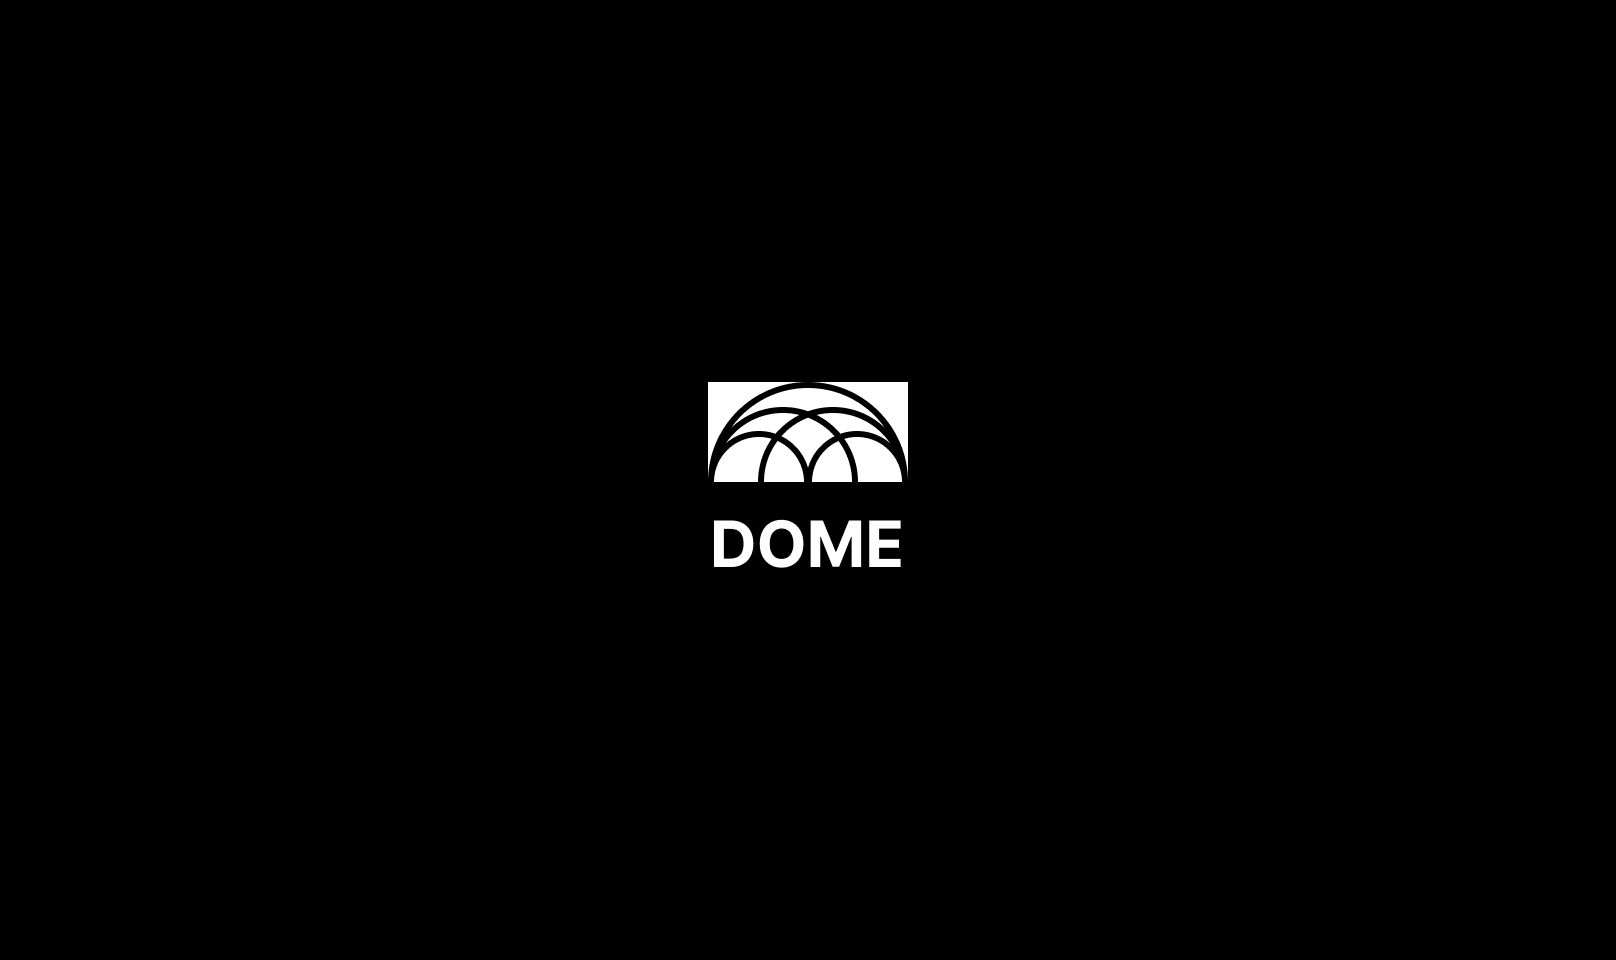
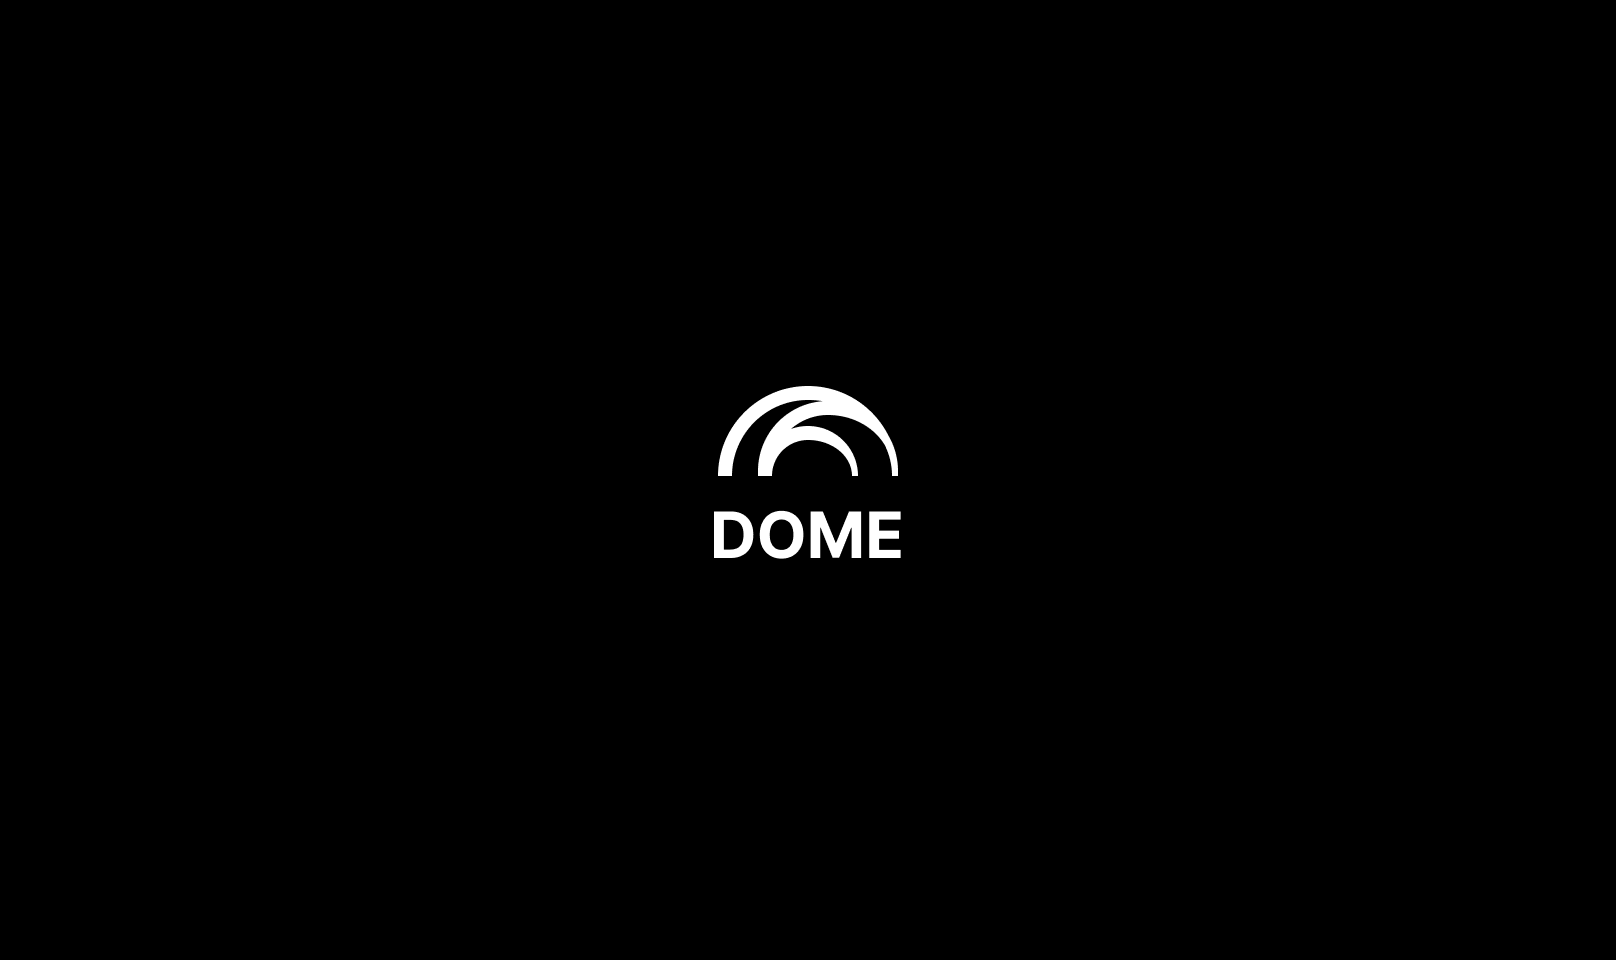
Update Readme cover and fix permissions bugs

Changed region(s): [[0.4332, 0.375, 0.5879, 0.5], [0.4332, 0.5312, 0.5569, 0.5938]]

diff --git a/dome-app/screens/Members.tsx b/dome-app/screens/Members.tsx
@@ -17,6 +17,7 @@ export default function MembersScreen() {
   const members = useAppSelector((state) => state.dome.members);
   const userUid = useAppSelector((state) => state.dome.user.uid);
   const isAdmin = useAppSelector((state) => state.dome.user.isAdmin);
+  const domeId = useAppSelector((state) => state.dome.id);
   const [shareDomeModalVisible, setShareDomeModalVisible] =
     React.useState(false);
   const [memberMenuVisible, setMemberMenuVisible] = React.useState(false);
@@ -65,7 +66,7 @@ export default function MembersScreen() {
         <TouchableOpacity
           className="flex flex-row items-center px-6 py-4"
           onPress={() => {
-            if (!isAdmin) {
+            if (!isAdmin && domeId !== "") {
               Toast.show("Only admin can add members");
             } else setShareDomeModalVisible(true);
           }}

diff --git a/dome-app/screens/Home.tsx b/dome-app/screens/Home.tsx
@@ -17,6 +17,7 @@ export default function HomeScreen() {
   const switches = useAppSelector((state) => state.dome.switches);
   const username = useAppSelector((state) => state.dome.user.name);
   const isAdmin = useAppSelector((state) => state.dome.user.isAdmin);
+  const domeId = useAppSelector((state) => state.dome.id);
 
   return (
     <Screen>
@@ -37,7 +38,7 @@ export default function HomeScreen() {
             <TouchableOpacity
               className="bg-[#27292D] flex-1 rounded-full py-3"
               onPress={() => {
-                if (!isAdmin) {
+                if (!isAdmin && domeId !== "") {
                   Toast.show("Only admin can add devices");
                 } else navigation.navigate("AddDevice");
               }}

diff --git a/dome-app/screens/Settings.tsx b/dome-app/screens/Settings.tsx
@@ -19,6 +19,8 @@ export default function SettingsScreen() {
   const isAdmin = useAppSelector((state) => state.dome.user.isAdmin);
   const domeId = useAppSelector((state) => state.dome.id);
 
+  console.log(domeId);
+
   return (
     <Screen>
       <View className="bg-white">
@@ -83,7 +85,9 @@ export default function SettingsScreen() {
             )}
             keyExtractor={(d) => d.id}
           />
-          {devices.length === 0 && isAdmin && (
+
+          {devices.length === 0 && <Text>No devices available</Text>}
+          {devices.length === 0 && (isAdmin || domeId === "") && (
             <TouchableOpacity
               className="flex flex-row items-center py-4"
               onPress={() => navigation.navigate("AddDevice")}

diff --git a/dome-app/redux/slices/domeThunk.ts b/dome-app/redux/slices/domeThunk.ts
@@ -13,7 +13,9 @@ export const fetchUserData = createAsyncThunk(
     if (!user.exists()) throw new Error("Non existent user");
 
     const { name, dome } = user.val();
-    if (dome === "") return { userUid: payload.uid, userName: name };
+    if (dome === "") {
+      return { userUid: payload.uid, userName: name, domeId: "" };
+    }
 
     const domeData = await get(ref(db, `domes/${dome}`));
     if (!domeData.exists()) throw new Error("Non existent dome");
